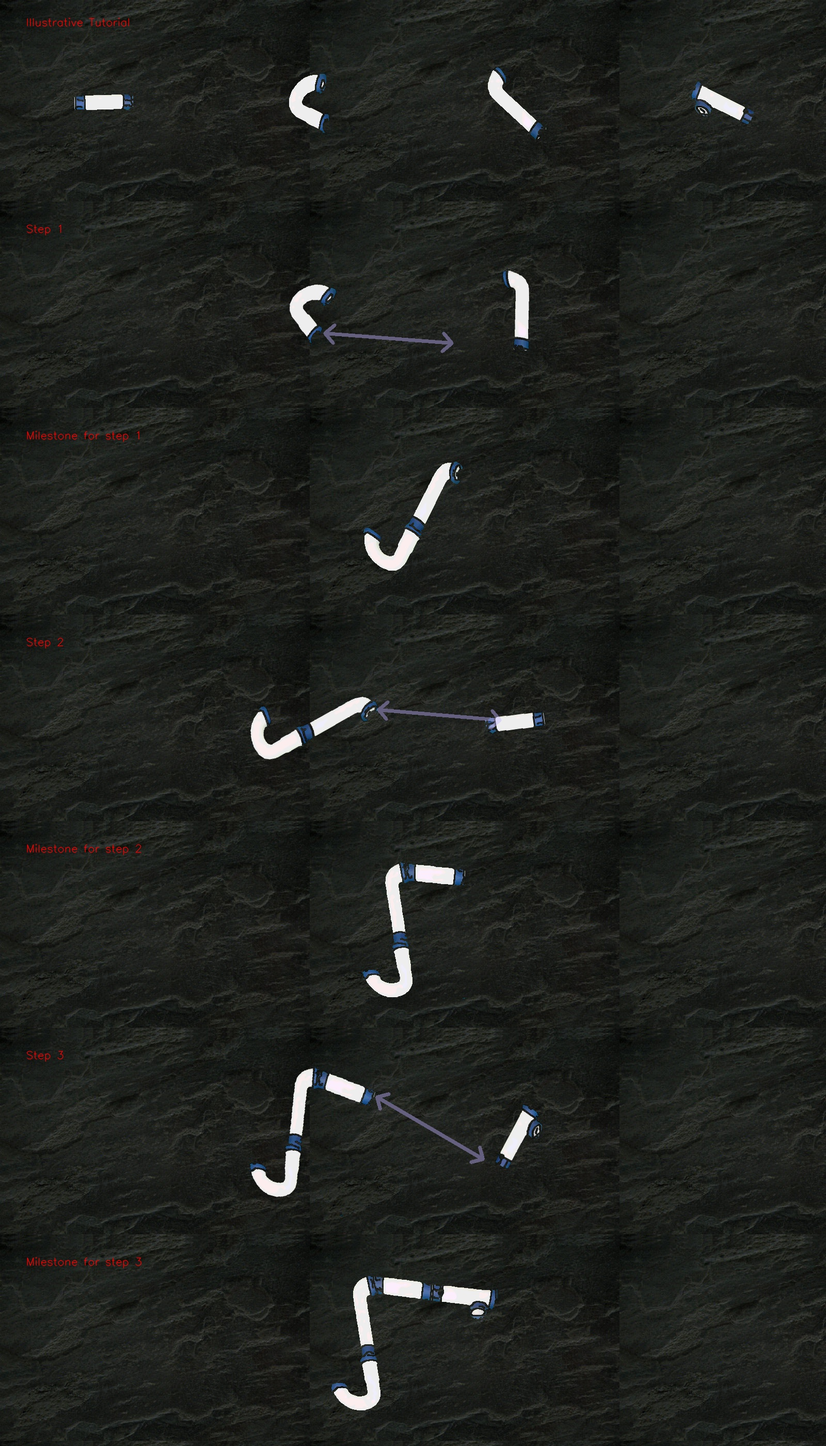
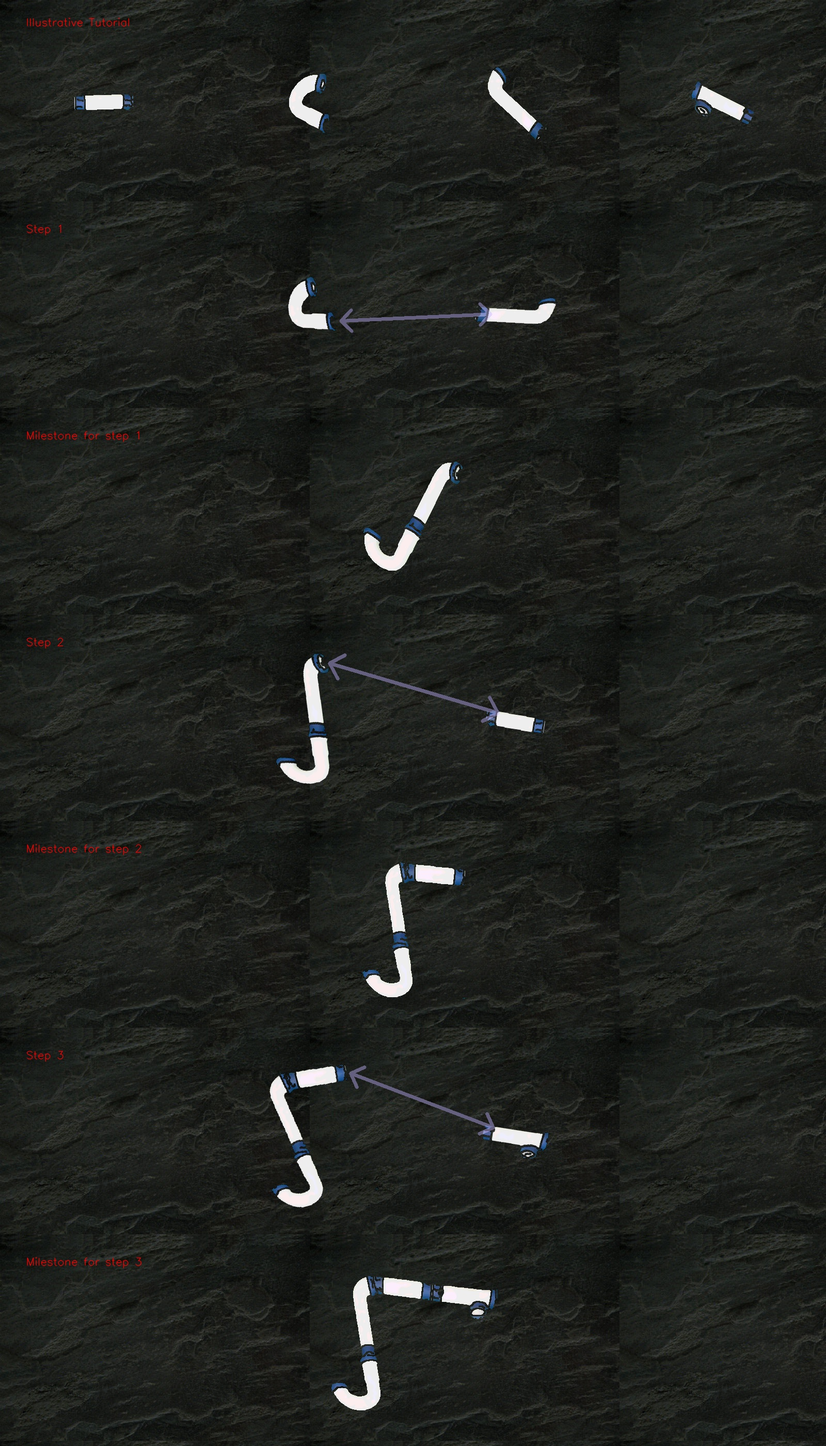
finish test

diff --git a/script/tutorial.py b/script/tutorial.py
@@ -111,13 +111,13 @@ def concat_imgs(images, point_ls, angle=(0,0),visualization=False):
         center_list = []
         for i, image in enumerate(image_list):
             if i == 0:
-                image, pst = rotate_image(image, point_ls[i],-angle[0])
+                image, pst = rotate_image(image, point_ls[i],angle[0])
                 # rotated_pst = np.matmul(matrix, np.array((list(point_ls[i]) + [1]))) 
                 # print(matrix, np.array((list(point_ls[i]) + [1])), rotated_pst)
                 img1, (x,y) = padding(image, (height, width), pst)
                 center_list.append((x, y))
             else:
-                image, pst = rotate_image(image, point_ls[i],-angle[1])
+                image, pst = rotate_image(image, point_ls[i],angle[1])
                 image = cv2.flip(image, 1)
                 pst = (pst[0] - image.shape[1]/2, pst[1])
 
@@ -210,8 +210,6 @@ def get_filename(ls, target):
 
 def main():
     data = pickle.load( open( "node.p", "rb" ))
-    # data = map(lambda x: (x[0], x[1], x[2], (np.rad2deg(x[-1][0]),np.rad2deg(x[-1][1]))), data)
-    print(data)
     file_list = glob.glob('test_imgs/save*.jpg')
     item_list =  list(filter(lambda x: int(str(x)[-5]) < 5,  file_list))
     item_list = list(map(cv2.imread, item_list))
@@ -226,14 +224,12 @@ def main():
 
         comic_book([img2, img1], angle,coord)
         comic_book([out])
-    #cv2.imshow('canvas', comic_book.canvas)
-    #cv2.waitKey(0)
     cv2.imwrite('img.jpg', comic_book.canvas)
-
-    # canvas, center_list = concat_imgs(['1.jpg', '2.jpg', '5.jpg'])
-    # draw_arrow(canvas, center_list[0], center_list[1])
-    # canvas = add_background(canvas)
-    # cv2.imshow('ddd', canvas)
-
+    
+    # img = cv2.imread('test_imgs/saved2.jpg')
+    # cv2.imshow('before', img)
+    # img, _ = rotate_image(img, (0,0), 90)
+    # cv2.imshow('dd', img)
+    # cv2.waitKey(0)
 if __name__ == '__main__':
     main()
